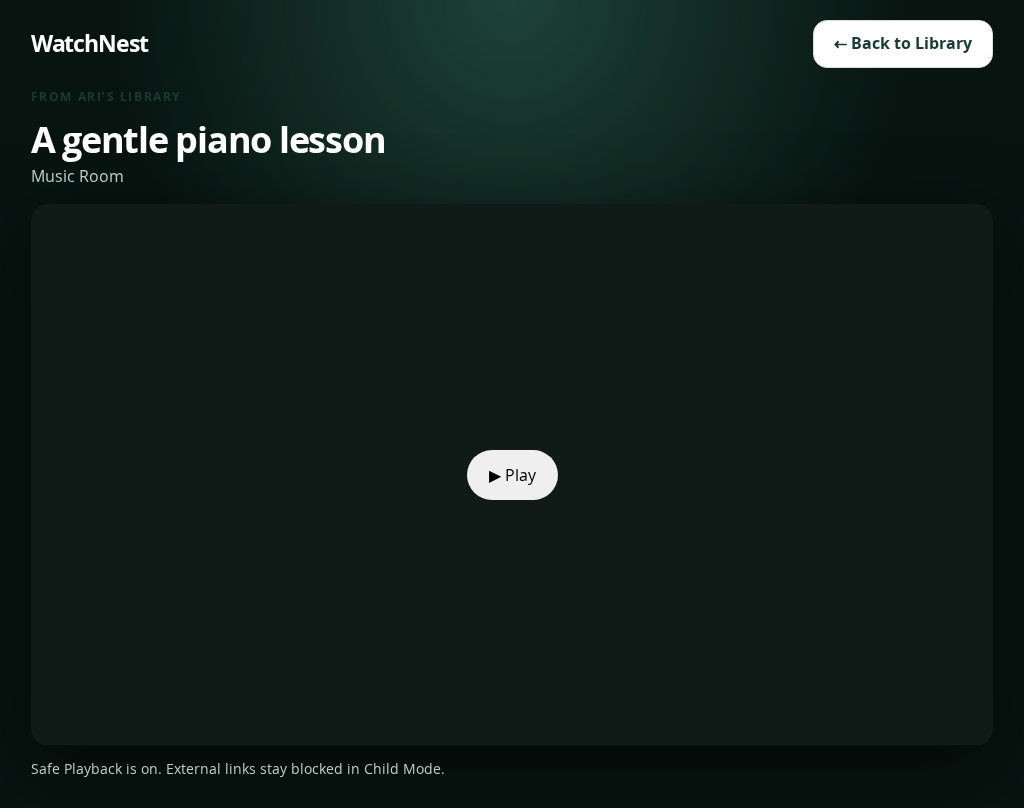
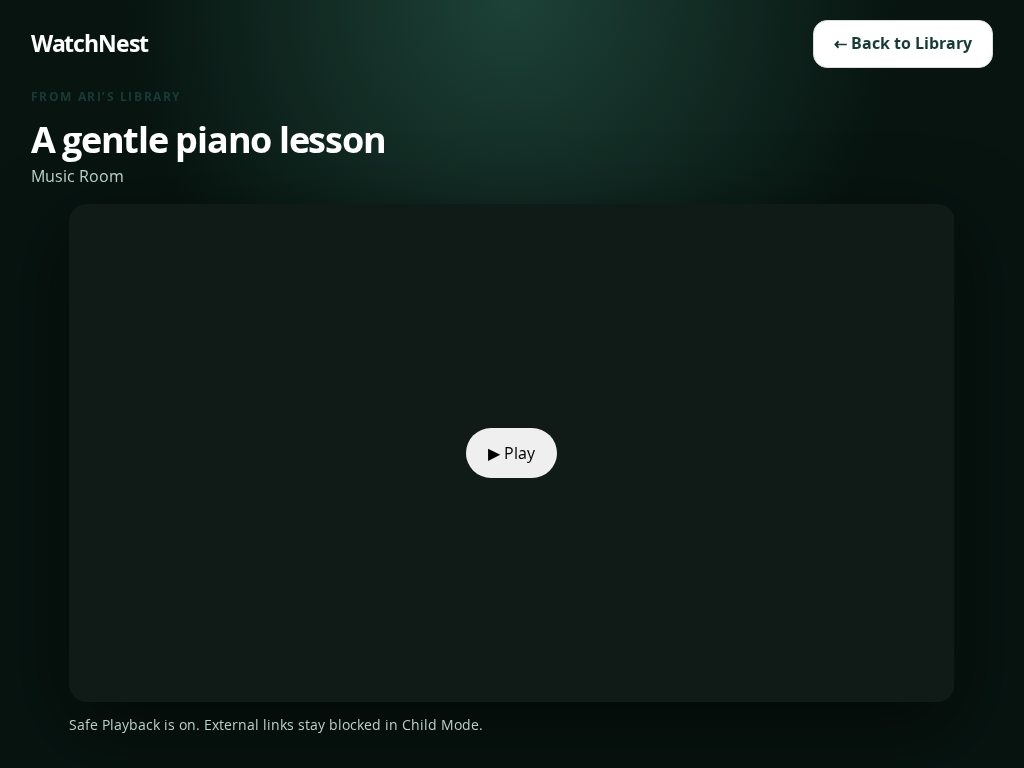
Fit immersive player within tablet viewport

diff --git a/e2e/product.spec.ts b/e2e/product.spec.ts
@@ -273,6 +273,7 @@ test("synthetic UI: Made-for-Kids playback uses a direct identified embed", asyn
   context,
 }) => {
   await fixture(page, "child");
+  await page.setViewportSize({ width: 1024, height: 768 });
   const madeForKids = { ...dashboard.videos[1], made_for_kids: true };
   await page.route("**/api/child/player?**", (route) =>
     route.fulfill({
@@ -300,6 +301,11 @@ test("synthetic UI: Made-for-Kids playback uses a direct identified embed", asyn
   await page.goto(`/watch/player/${madeForKids.id}`);
   const iframe = page.locator('iframe[title="A gentle piano lesson"]');
   await expect(iframe).toBeVisible();
+  expect(
+    await page.evaluate(
+      () => document.documentElement.scrollHeight <= innerHeight + 1,
+    ),
+  ).toBe(true);
   const src = new URL((await iframe.getAttribute("src"))!);
   expect(src.origin).toBe("https://www.youtube-nocookie.com");
   expect(src.pathname).toBe(`/embed/${madeForKids.youtube_video_id}`);

diff --git a/src/app/watch/watch.css b/src/app/watch/watch.css
@@ -433,7 +433,7 @@
 .child-player-shell > .player-volume,
 .child-player-shell > .safe-playback-note,
 .child-player-shell > .child-player-next {
-  max-width: min(1500px, calc((100dvh - 210px) * 16 / 9));
+  max-width: min(1500px, calc((100dvh - 270px) * 16 / 9));
   margin-left: auto;
   margin-right: auto;
 }
@@ -448,7 +448,7 @@
     font-size: 0.95rem;
   }
   .child-player-topbar .button {
-    min-height: 42px;
+    min-height: 44px;
     padding: 9px 12px;
   }
   .child-player-heading {

diff --git a/docs/SkillInvocationLedger.md b/docs/SkillInvocationLedger.md
@@ -28,6 +28,14 @@ change. It also changes “Choose what fits this device” to the clearer
 active navigation at 390 px. The initial Stranger FAIL is retained as evidence;
 the repair requires a fresh review rather than self-upgrading the result.
 
+The independent Human-Eye pass on the same initial candidate separately found
+the two mobile defects and a third tablet defect: at 1024×768 the player route
+was 808 px tall, placing the Safe Playback reassurance below the initial
+viewport. The repaired viewport formula reserves the complete player heading,
+status, and bottom spacing; the exact regenerated tablet raster is now
+1024×768, and a browser assertion fails if the player document exceeds the
+viewport. The initial visual FAIL remains recorded pending fresh review.
+
 # Player chrome and iPhone containment receipt — 2026-10-05
 
 **Exact successor:** commit `646d67b6e1b0bd15bcd01888cba93fb4daf6892d`, tree `feebbaf8336b5e26b96901a3d6462ab7f10c1ab1`, production `dpl_HjEH8DasFG4adQ1UqEt4r7pJ2hPS`.

diff --git a/docs/RunState.md b/docs/RunState.md
@@ -22,6 +22,13 @@ new 390 px regression checks verify adjacent status and visible active
 navigation. The first FAIL remains recorded and cannot be promoted to PASS
 without a fresh review of the repaired commit.
 
+The first Human-Eye review independently found the same two defects plus a
+1024×768 player overflow: the route rendered 808 px tall and pushed its Safe
+Playback note below the initial viewport. The repaired viewport reservation
+keeps the complete immersive surface at 1024×768; the exact raster and an
+automated scroll-height assertion now cover the regression. The original
+Human-Eye FAIL is preserved until the repaired commit receives a fresh pass.
+
 ## Exact binding
 
 - Working URL: https://watchnest-rho.vercel.app
